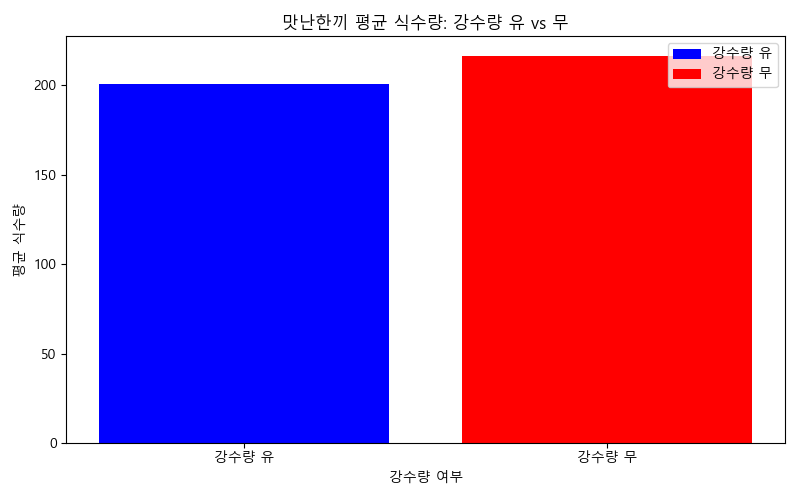
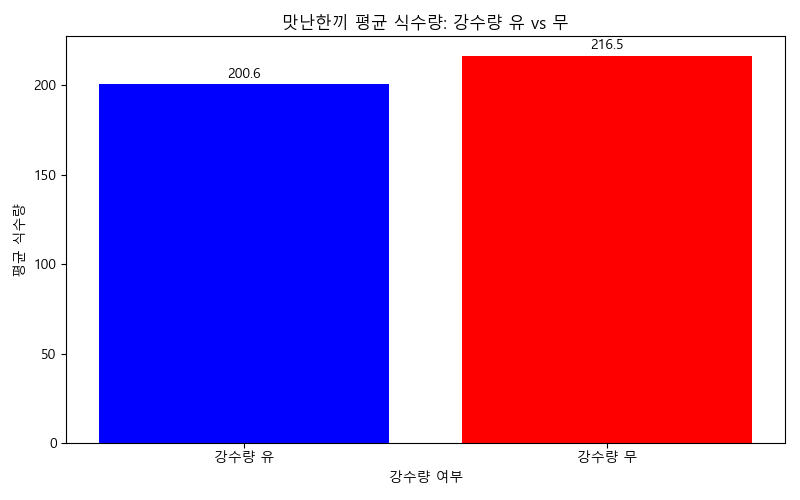
Added labels on top of rain vs student count bar graph

Changed region(s): [[0.8125, 0.09, 0.9688, 0.18], [0.75, 0.06, 0.7812, 0.12], [0.2812, 0.12, 0.3125, 0.18]]

diff --git a/src/visualize.py b/src/visualize.py
@@ -117,17 +117,20 @@ def plot_rain_vs_student_count():
     # HEALTHY
     rain_yes_healthy = healthy[healthy['강수량'] > 0]
     rain_no_healthy = healthy[healthy['강수량'] == 0]
-
     rain_yes_avg_healthy = rain_yes_healthy['식수량'].mean()
     rain_no_avg_healthy = rain_no_healthy['식수량'].mean()
 
     plt.figure(figsize=(8, 5))
-    plt.bar('강수량 유', rain_yes_avg_healthy, color='blue', label='강수량 유')
-    plt.bar('강수량 무', rain_no_avg_healthy, color='red', label='강수량 무')
+    bars = plt.bar(['강수량 유', '강수량 무'], [rain_yes_avg_healthy, rain_no_avg_healthy],
+                   color=['blue', 'red'], label=['강수량 유', '강수량 무'])
+
+    for bar in bars:
+        yval = bar.get_height()
+        plt.text(bar.get_x() + bar.get_width() / 2, yval + 2, f'{yval:.1f}', ha='center', va='bottom')
+
     plt.title('건강한끼 평균 식수량: 강수량 유 vs 무')
     plt.xlabel('강수량 여부')
     plt.ylabel('평균 식수량')
-    plt.legend()
     plt.tight_layout()
     plt.savefig('data/visualization/rain_vs_student_count_healthy.png')
     plt.show()
@@ -135,17 +138,21 @@ def plot_rain_vs_student_count():
     # YUMMY
     rain_yes_yummy = yummy[yummy['강수량'] > 0]
     rain_no_yummy = yummy[yummy['강수량'] == 0]
-
     rain_yes_avg_yummy = rain_yes_yummy['식수량'].mean()
     rain_no_avg_yummy = rain_no_yummy['식수량'].mean()
 
     plt.figure(figsize=(8, 5))
-    plt.bar('강수량 유', rain_yes_avg_yummy, color='blue', label='강수량 유')
-    plt.bar('강수량 무', rain_no_avg_yummy, color='red', label='강수량 무')
+    bars = plt.bar(['강수량 유', '강수량 무'], [rain_yes_avg_yummy, rain_no_avg_yummy],
+                   color=['blue', 'red'], label=['강수량 유', '강수량 무'])
+
+    # logic to add value labels on top of bars 
+    for bar in bars:
+        yval = bar.get_height() # the actual value of the bar
+        plt.text(bar.get_x() + bar.get_width() / 2, yval + 2, f'{yval:.1f}', ha='center', va='bottom') # calculate horizontal position and vertical position of the text
+
     plt.title('맛난한끼 평균 식수량: 강수량 유 vs 무')
     plt.xlabel('강수량 여부')
     plt.ylabel('평균 식수량')
-    plt.legend()
     plt.tight_layout()
     plt.savefig('data/visualization/rain_vs_student_count_yummy.png')
     plt.show()

diff --git a/main_selenium.py b/main_selenium.py
@@ -79,6 +79,6 @@ if __name__ == "__main__":
     # crawl_schedule()
     plot_top10_menus()
     # plot_exam_vs_student_count()
-    # plot_rain_vs_student_count()
+    plot_rain_vs_student_count()
 
     
